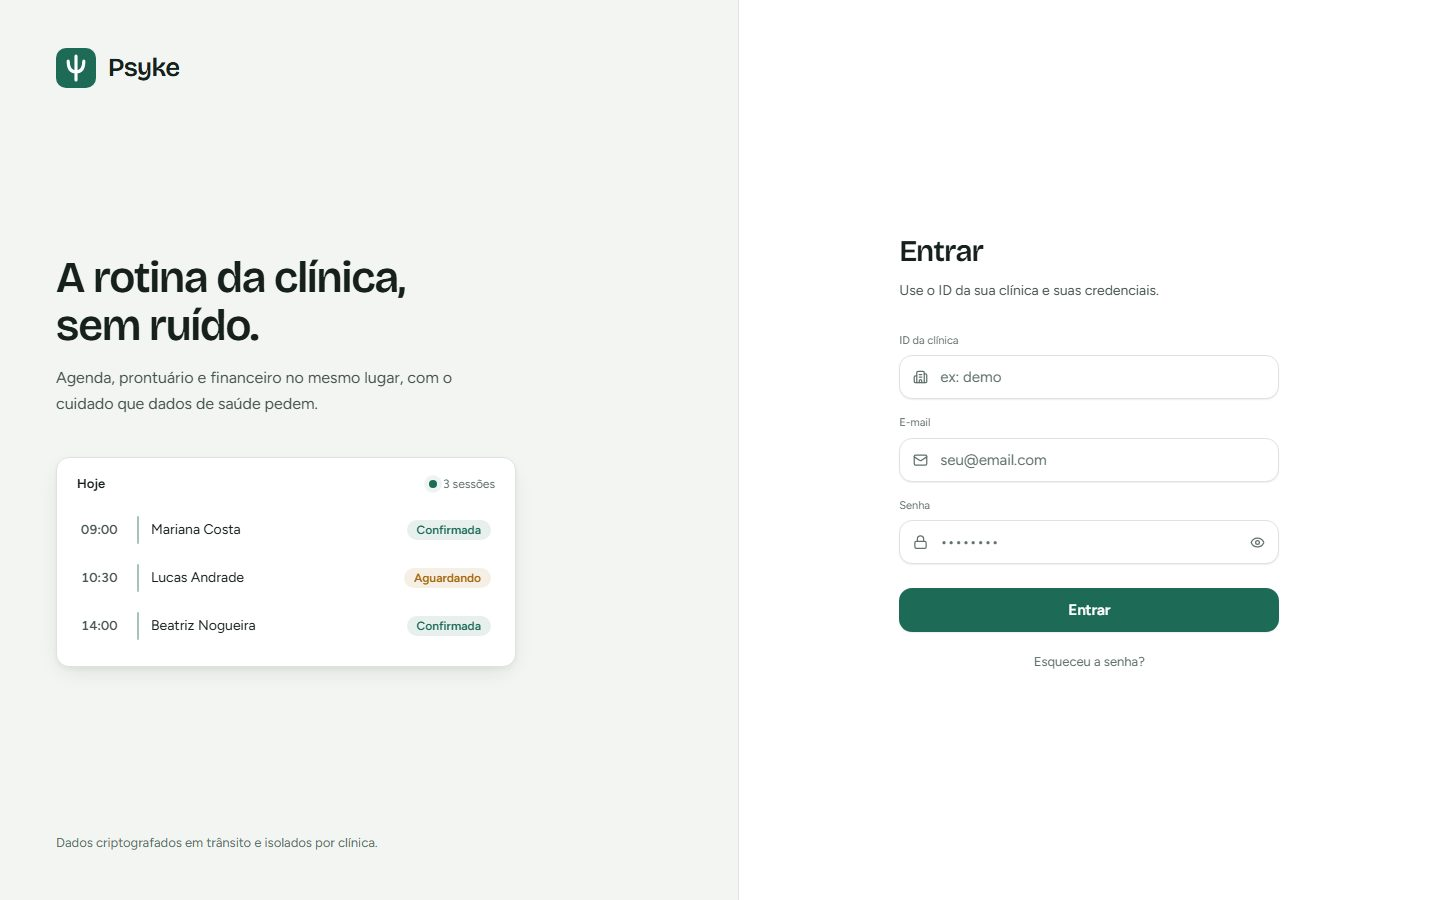
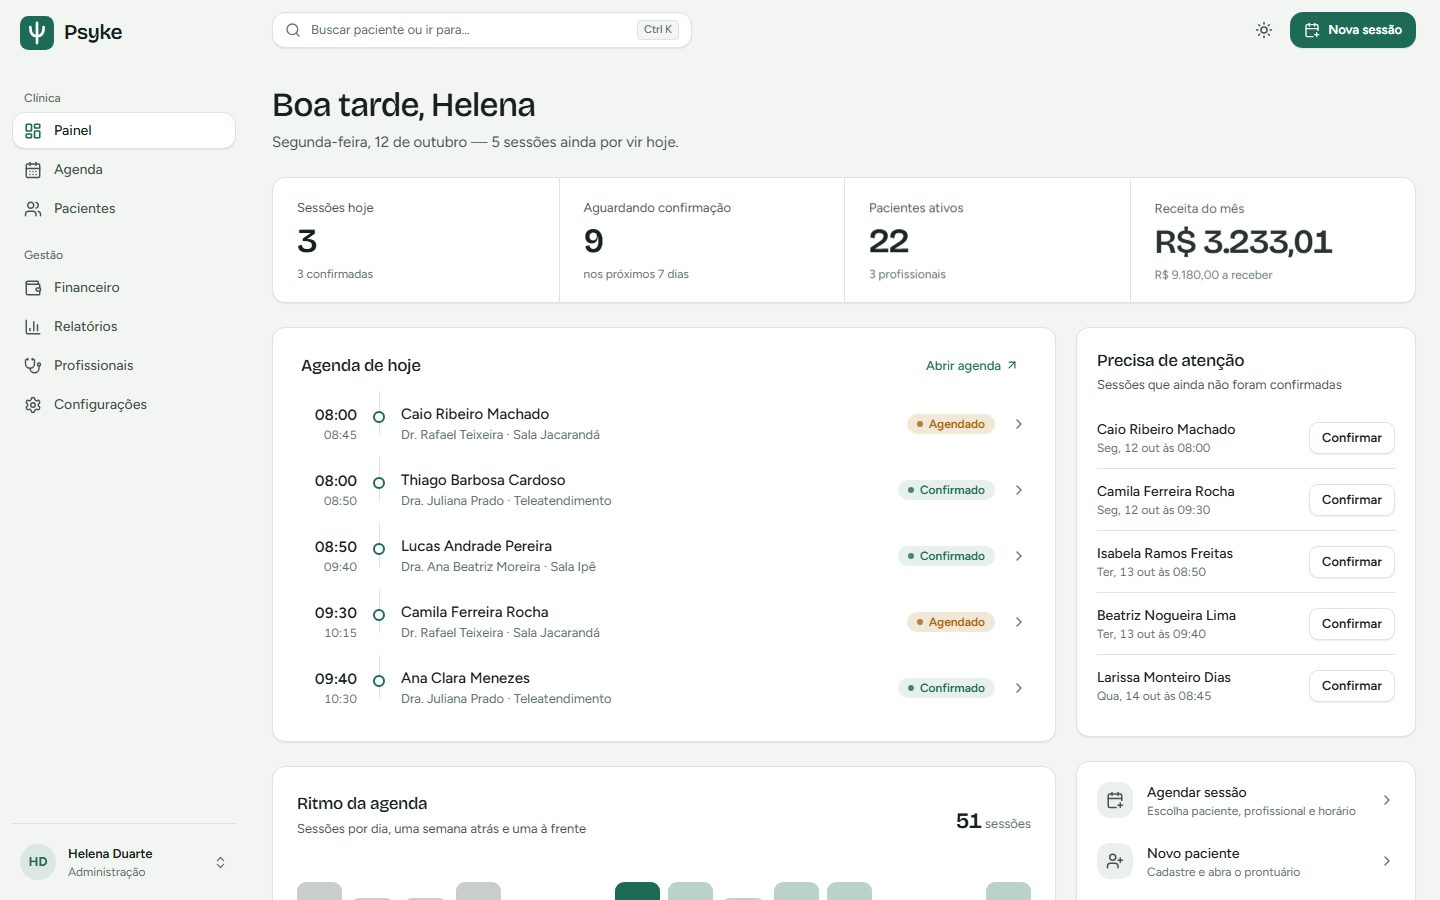
feat(interfaces): Psyke mostra o dashboard da clínica de demonstração
A captura do Psyke saiu da tela de login para o painel por dentro
(computador e celular), feito com a conta da clínica de demonstração em
produção: pacientes, profissionais e valores são fictícios do seed.

diff --git a/src/content/interfaces.ts b/src/content/interfaces.ts
@@ -4,7 +4,8 @@ const GH = "https://github.com/LeonardoBoni-018"
 
 // Fonte: repositórios no GitHub (READMEs, commits, package.json) e os sites no ar, out/2026.
 // Só entram os fronts mais bem estruturados. Screenshots tiradas dos deploys de produção
-// (homepage de cada repositório); telas com login mostram a entrada do sistema.
+// (homepage de cada repositório). Telas internas só com contas de demonstração (dados fictícios);
+// sem uma, a captura mostra a tela de entrada do sistema.
 export const interfaces: InterfaceProject[] = [
   {
     slug: "frames-by-gi",
@@ -148,7 +149,7 @@ export const interfaces: InterfaceProject[] = [
       desktop: "/interfaces/psyke-desktop.jpg",
       mobile: "/interfaces/psyke-mobile.jpg",
     },
-    route: "psyke-front.vercel.app/login",
+    route: "psyke-front.vercel.app/dashboard",
   },
   {
     slug: "agendamento-front",
